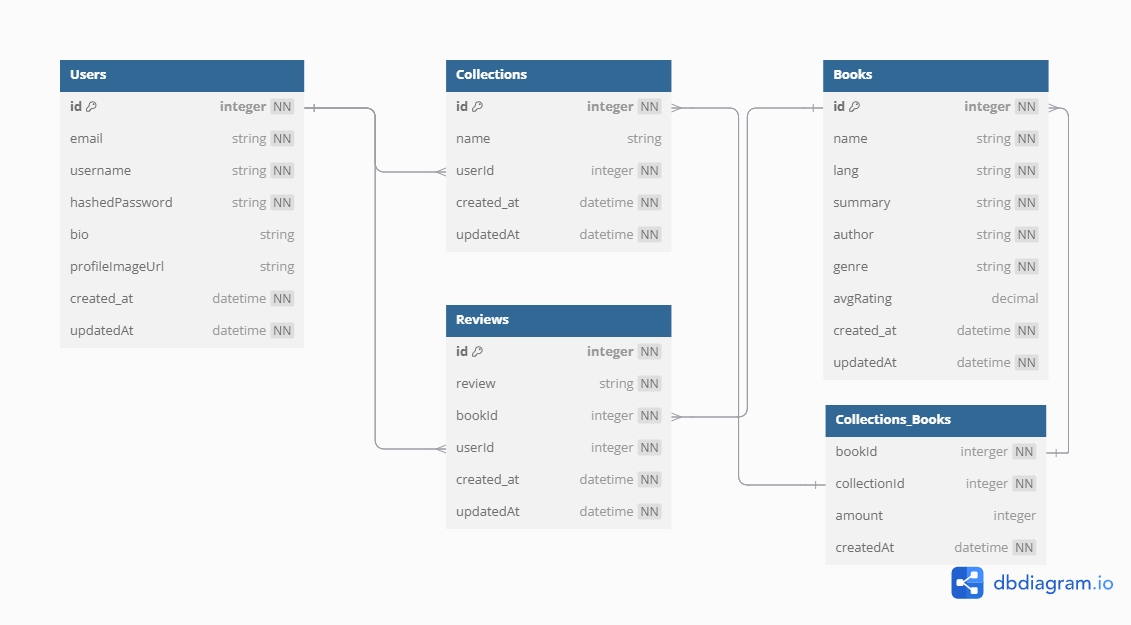
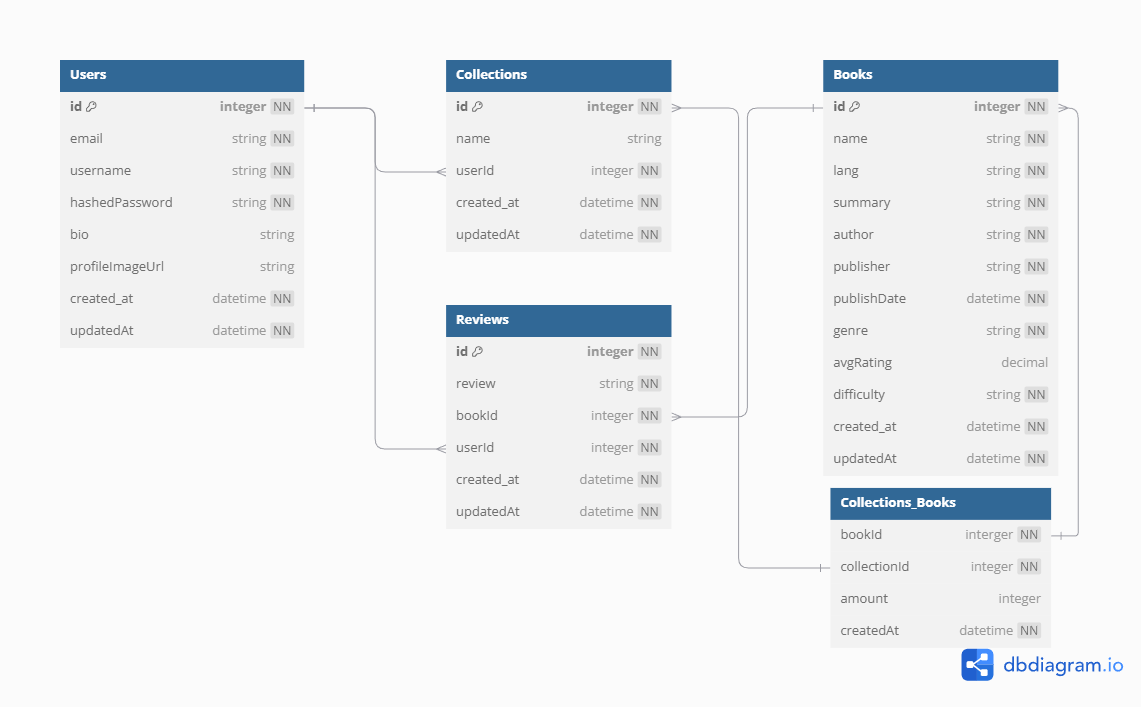
fixed api docs, ready for review

diff --git a/api_docs/api_routes.md b/api_docs/api_routes.md
@@ -28,7 +28,6 @@ Users can log in using their email or username.
       "id": 1,
       "username": "username",
       "email": "user@example.com",
-      "bio": "example bio here", //might delete
       "profileImageUrl": "exampleprofile.url",
       "createdAt": "2024-10-30 23:51:27",
       "updatedAt": "2024-10-30 23:51:27",
@@ -97,7 +96,6 @@ Users can create a new account by signing up.
       "artistName": "desired_artistName",
       "username": "desired_username",
       "email": "user@example.com",
-      "bio": "", //might delete
       "profileImageUrl": "",
       "createdAt": "2024-11-01 02:12:32",
       "updatedAt": "2024-11-01 02:12:32",
@@ -134,7 +132,6 @@ Users can retrieve their own user information.
       "id": 1,
       "username": "current_username",
       "email": "current_user@example.com",
-      "bio": "Current user's bio", //might delete if decide to not do a user profile page
       "profileImageUrl": "currentprofile.url",
       "createdAt": "2024-10-30 23:51:27",
       "updatedAt": "2024-10-30 23:51:27",
@@ -153,14 +150,14 @@ Users can retrieve their own user information.
 
 ## Books
 
-### Get all Books
+### Get Books by Language
 
 Users should be able to view all Books.
 
 - **Require authentication**: false
 - **Request**
   - **Method**: GET
-  - **Route path**: /api/books
+  - **Route path**: /api/books/eng
   - **Body**: none
 - **Successful Response**
 
@@ -202,11 +199,13 @@ Return details of a Book specified by its id.
       "bookId": 1,
       "name": "BookName",
       "author": "Author",
+      "publisher": "Publisher",
+      "publishDate": "2024-10-29 18:38:09.043894",
       "lang": "English",
       "genre": "Mystery",
       "avgRating": 3,
+      "difficulty": "Beginner",
       "summary": "Description Here",
-      "publishDate": "2024-10-29 18:38:09.043894",
       "imageUrl": "image.url",
       "createdAt": "2024-10-29 18:38:09.043894",
       "updatedAt": "2024-10-29 18:38:09.043894"
@@ -250,7 +249,7 @@ Users should be able to create a Collection.
         "collectionName": "CollectionName",
         "userId": 1,
         "lang": "English",
-        "amount": 0,
+        "count": 0,
         "books":[
         //where books will go
           {}
@@ -366,6 +365,7 @@ Users should be able to view all Books added to their Collection.
     {
       "collection": {
         "id": 1,
+        "collectionName": "CollectionName",
         "books": [
           {
             "bookId": 1,

diff --git a/api_docs/database_schema.md b/api_docs/database_schema.md
@@ -24,7 +24,10 @@
 | lang        | string    | not null              |
 | summary     | string    | not null              |
 | author      | string    | not null              |
+| publisher   | string    | not null              |
+| publishDate | datetime  | not null              |
 | genre       | string    | not null              |
+| difficulty  | string    | not null              |
 | avgRating   | decimal   |                       |
 | createdAt   | datetime  | not null              |
 | updatedAt   | datetime  | not null              |
@@ -48,7 +51,7 @@
 | ----------- | --------- | --------------------- |
 | bookId      | integer   | not null, foreign key |
 | collectionId| integer   | not null, foreign key |
-| amount      | integer   |                       |
+| count       | integer   |                       |
 | createdAt   | datetime  | not null              |
 
 - `bookId` references `books` table

diff --git a/api_docs/feature_list.md b/api_docs/feature_list.md
@@ -13,12 +13,16 @@ by: Zechariah Dominguez
 * Logged-out users are directed to a landing page displaying all books.
 
 ---
+## 2. Books
 
-## 2. Collections
+* Logged-in and logged-out users can view all books
+
+---
+## 3. Collections
 
 * Logged-in users can create new collections with language preference.
 * Users can edit and delete their own collections.
-* All users (logged in or logged out) can browse all books.
+* Logged-in users can browse all books in their collections.
 
 ---
 
@@ -37,7 +41,7 @@ by: Zechariah Dominguez
 
 ---
 
-## 3. Reviews
+## 4. Reviews
 
 * Logged-in users can post reviews on books.
 * Users can edit and delete their own reviews.
@@ -58,7 +62,7 @@ by: Zechariah Dominguez
 
 ---
 
-## 4. Bonus Features
+## 5. Bonus Features
 
 ### Search Functionality
 * Users can search for books using keywords and view relevant search results.
